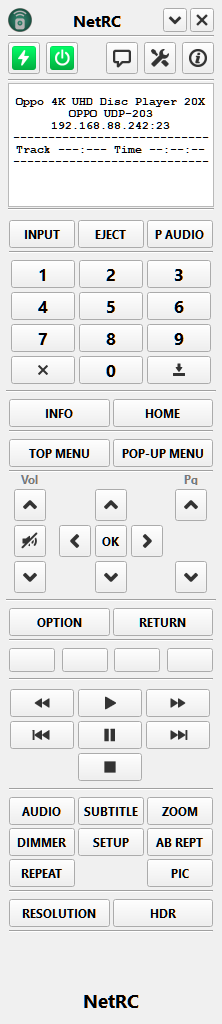
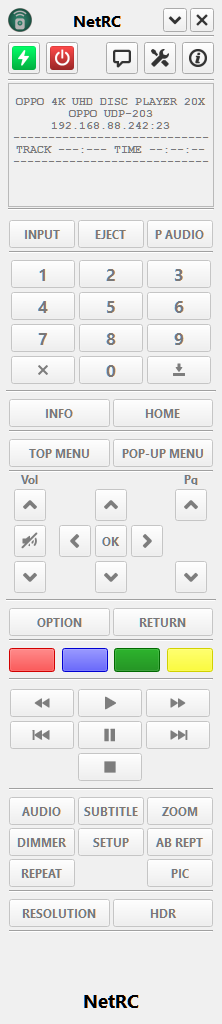
change style without style :)

diff --git a/src/remotecontrol.cpp b/src/remotecontrol.cpp
@@ -82,11 +82,6 @@ RemoteControl::RemoteControl(QWidget *parent) :
     initConnect();
     reloadMenu();
 
-    ui->rc_btn_colorYellow->setStyleSheet("background-color : yellow");
-    ui->rc_btn_colorGreen->setStyleSheet("background-color : green");
-    ui->rc_btn_colorRed->setStyleSheet("background-color : red");
-    ui->rc_btn_colorBlue->setStyleSheet("background-color : blue");
-
     show();
     ui->connectButton->setEnabled(true);
     redraw();
@@ -112,9 +107,19 @@ void RemoteControl::restoreSettings()
 }
 
 void RemoteControl::changeTheme(QByteArray style) {
+
     if(style.isEmpty()) {
+
+        ui->rc_btn_colorYellow->setStyleSheet("background-color : yellow");
+        ui->rc_btn_colorGreen->setStyleSheet("background-color : green");
+        ui->rc_btn_colorRed->setStyleSheet("background-color : red");
+        ui->rc_btn_colorBlue->setStyleSheet("background-color : blue");
         setAttribute(Qt::WA_NoSystemBackground, false);
     } else {
+        ui->rc_btn_colorYellow->setStyleSheet("");
+        ui->rc_btn_colorGreen->setStyleSheet("");
+        ui->rc_btn_colorRed->setStyleSheet("");
+        ui->rc_btn_colorBlue->setStyleSheet("");
         setAttribute(Qt::WA_NoSystemBackground);
     }
     QString styleSheet = QLatin1String(style);
